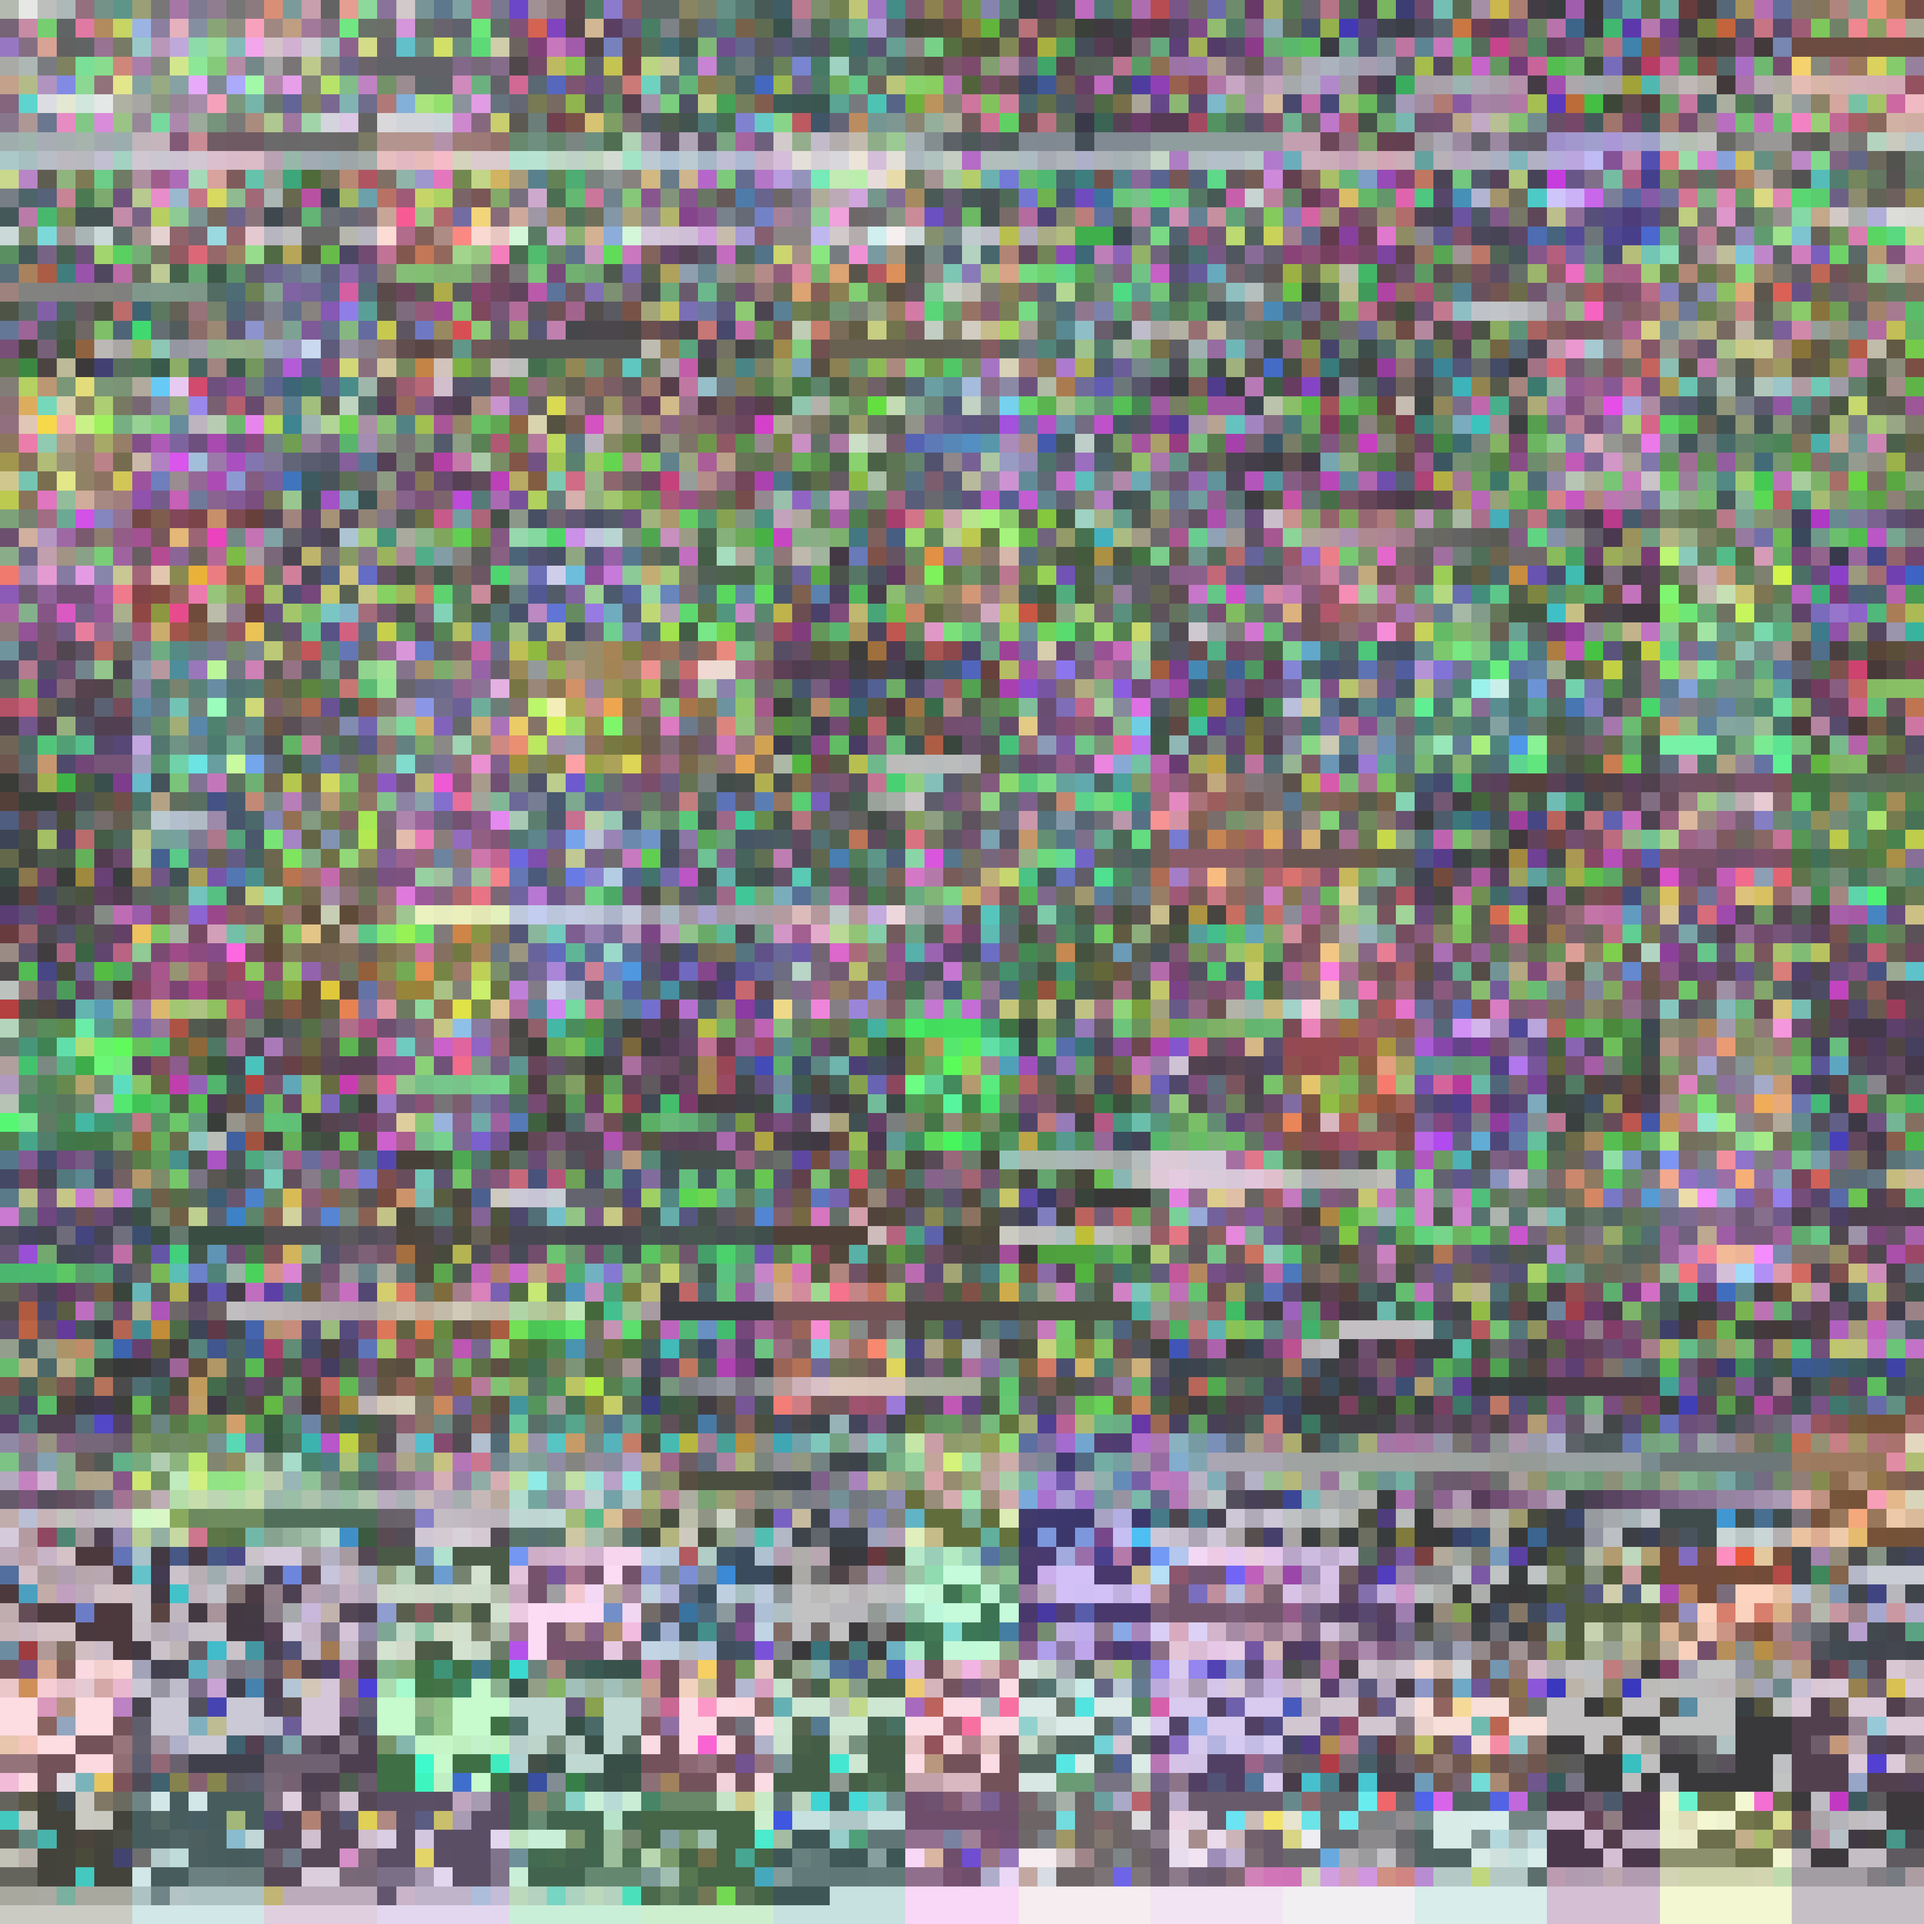
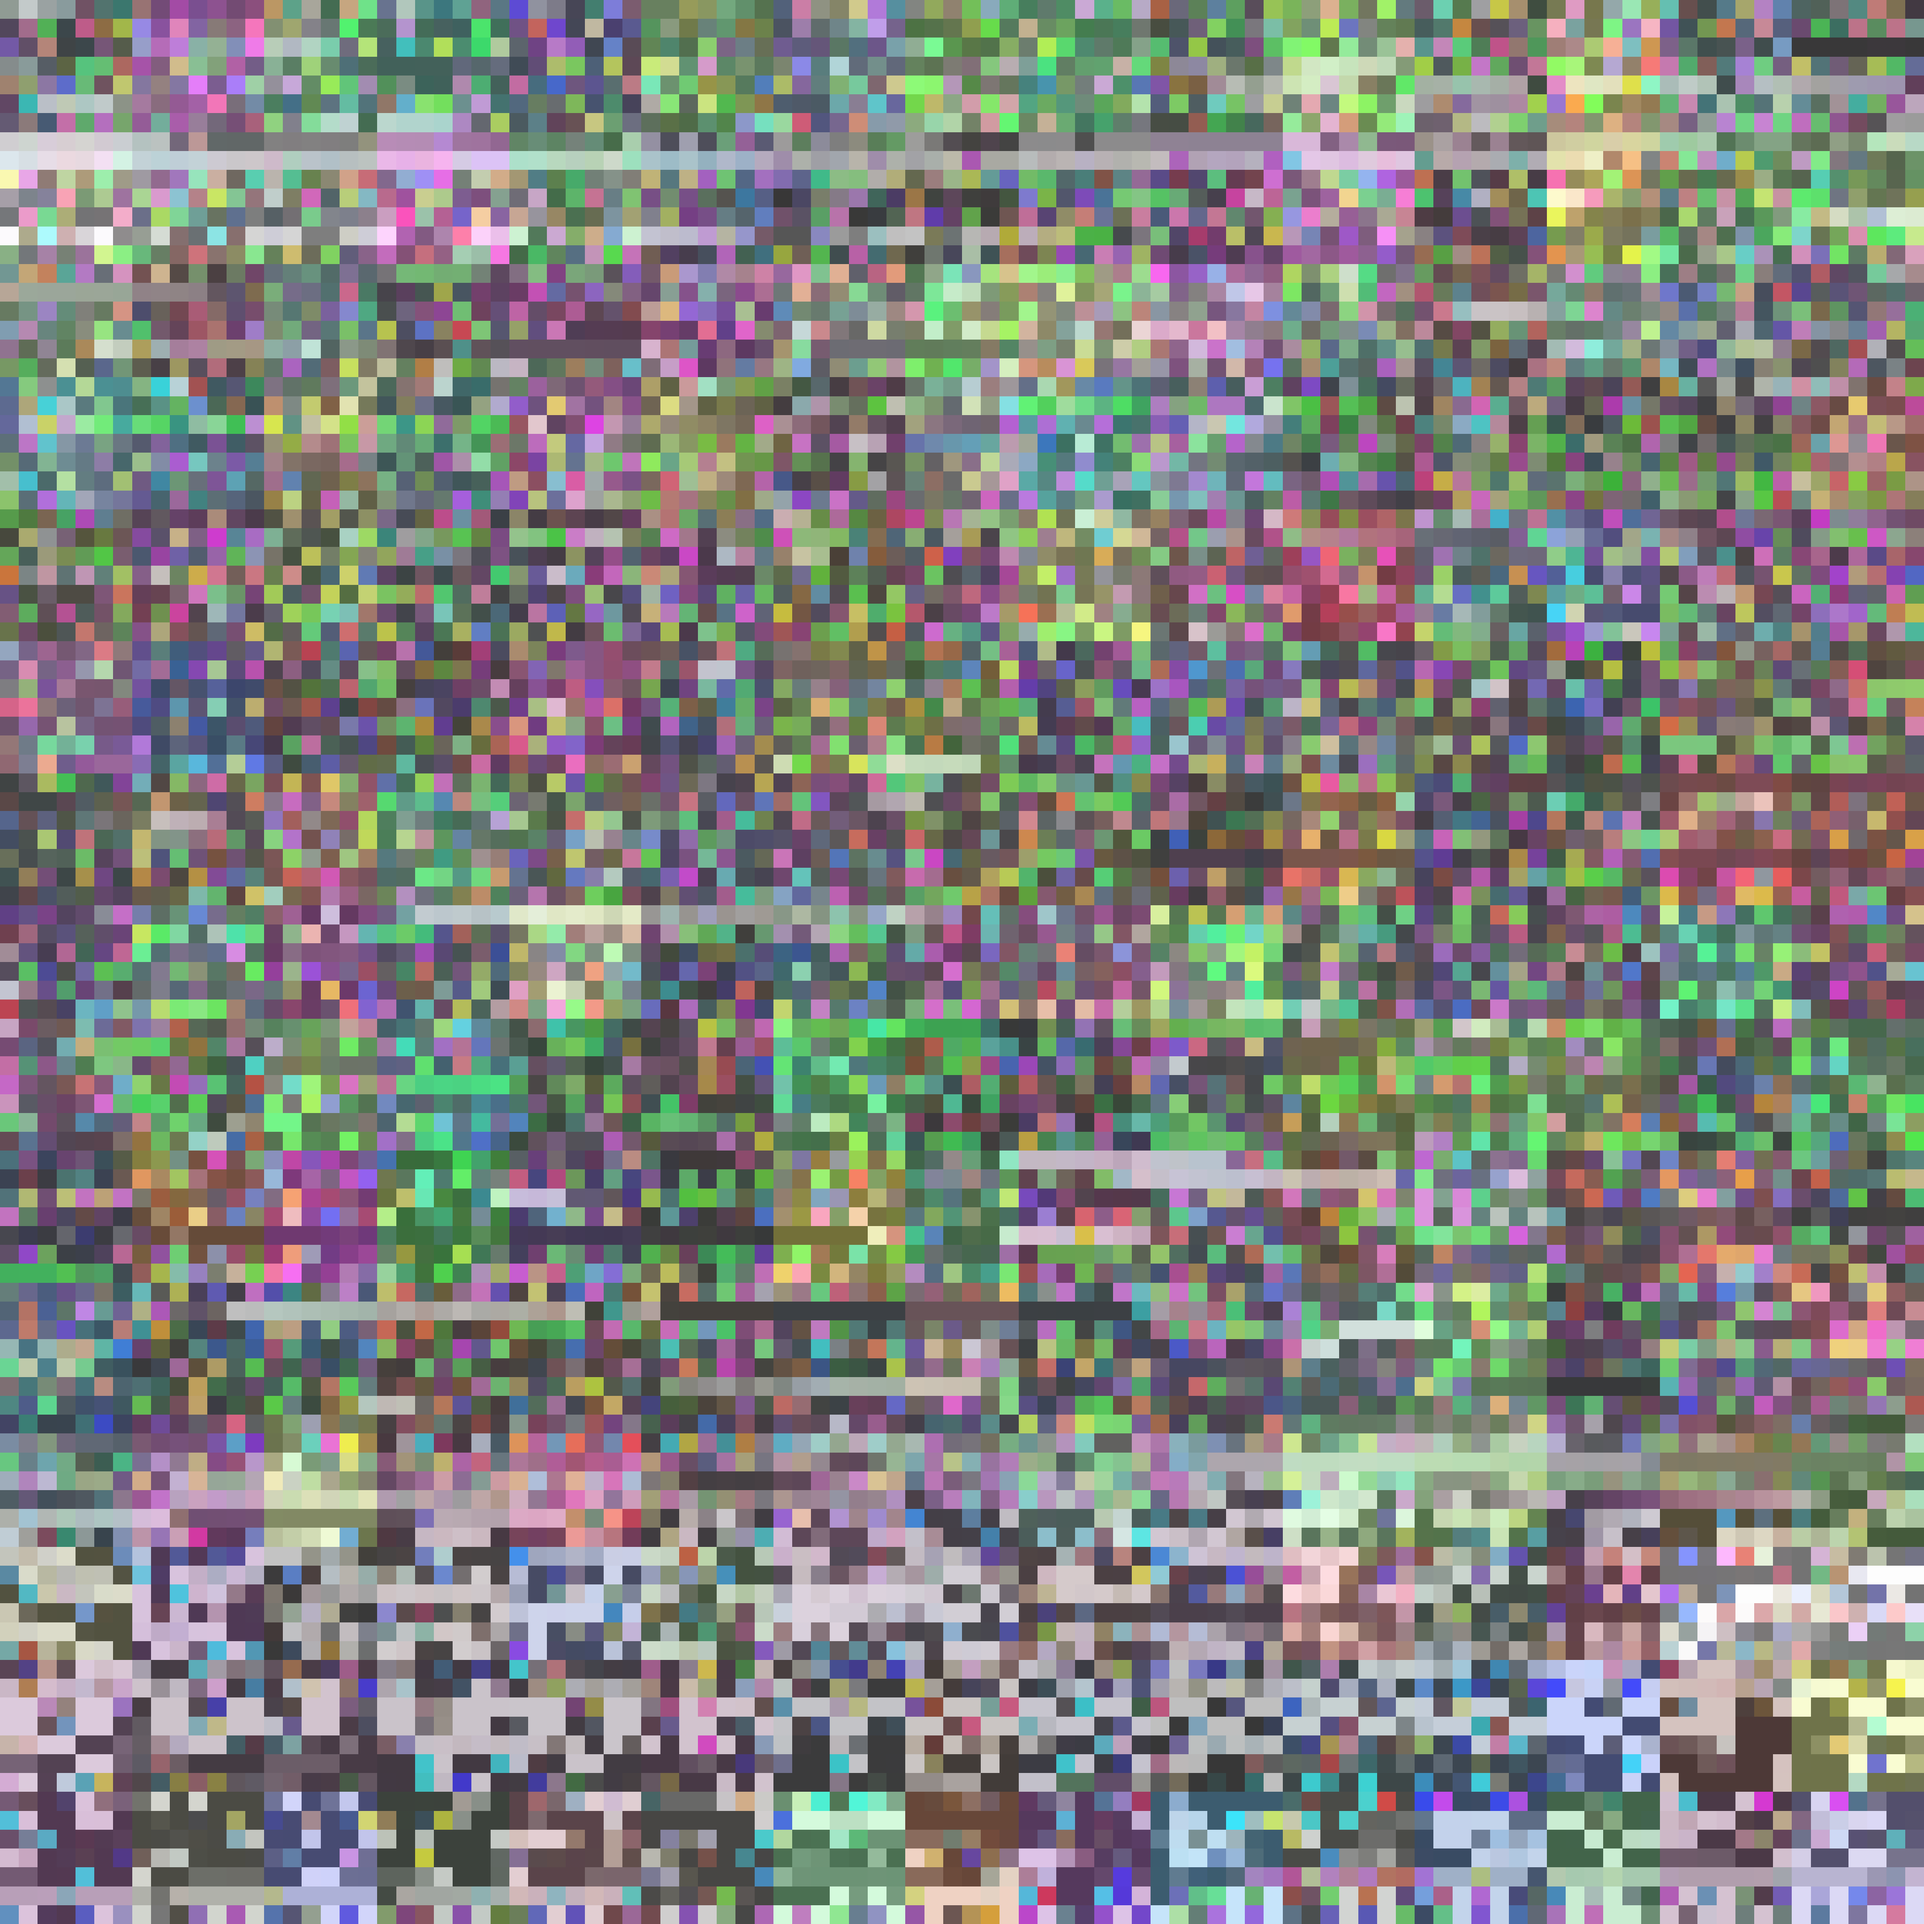
take section from 1/3 in, do not save intermediate

diff --git a/make_image.py b/make_image.py
@@ -28,7 +28,7 @@ def make_buffer(array_from_file, buffer_extra=0):
 def scale_and_save(data, scale_factor, name):
     new_file = f"./{name}.png"
     data = scale(data, scale_factor, im.BOX)
-    data.save(new_file, quality="maximum")
+    # data.save(new_file, quality="maximum")
     return data
 
 if __name__ == "__main__":
@@ -51,7 +51,8 @@ if __name__ == "__main__":
     if enclosing_large_dimension >= THUMNAIL_THRESHHOLD: # Only make thumnail and composite for larger images
         print("Processing section...")
         scale_factor = enclosing_large_dimension/THUMBNAIL_DIMENSION
-        section_array = array_file[:THUMBNAIL_DIMENSION*THUMBNAIL_DIMENSION]
+        start_index = math.floor(len(array_file)/3) # start smaller sub-array of data about 1/3 into the file
+        section_array = array_file[start_index:THUMBNAIL_DIMENSION*THUMBNAIL_DIMENSION + start_index]
         section_image, _ = make_buffer(section_array)
         print("Saving section...")
         section_file = scale_and_save(section_image, scale_factor, filename_bare + "_section")

diff --git a/README.md b/README.md
@@ -1,15 +1,19 @@
 # make_image.py
 
-Makes a set of color images based on the byte values of any file.
+Makes color image based on the byte values of any file.
 
 Very primitive and silly, and not guaranteed to reveal
 secret Bible-code-like data trends, but hey, that's sort of the point :).
 
 Usage:  `make_image.py <filename>`
 
+` ./make_image.py /bin/bash # creates a PNG file based on the bash executable. `
 
-` ./make_image.py /bin/bash # creates 3 PNG files based on the bash executable. `
-`One represents all bytes, one represents the first 225 bytes,
-(assuming the original file is larger than 90K), and one
-is a composite of the two with transparency to show an enlargement
-at scale.
+The script looks at bytes from the file in 32-bit word chunks and maps them to 32-bit CMYK encoded pixels.
+
+Then, a section of 225 bytes from part-way into that file is taken and given the same process.  (Assuming the file is 50K or larger)
+
+Finally, that section off 225 bytes is enlarged overlaid on the original with transparency to show
+scale and detail.    The final image is then scaled to 4000x4000 pixels unless the `no_scale` argument is added.
+
+
